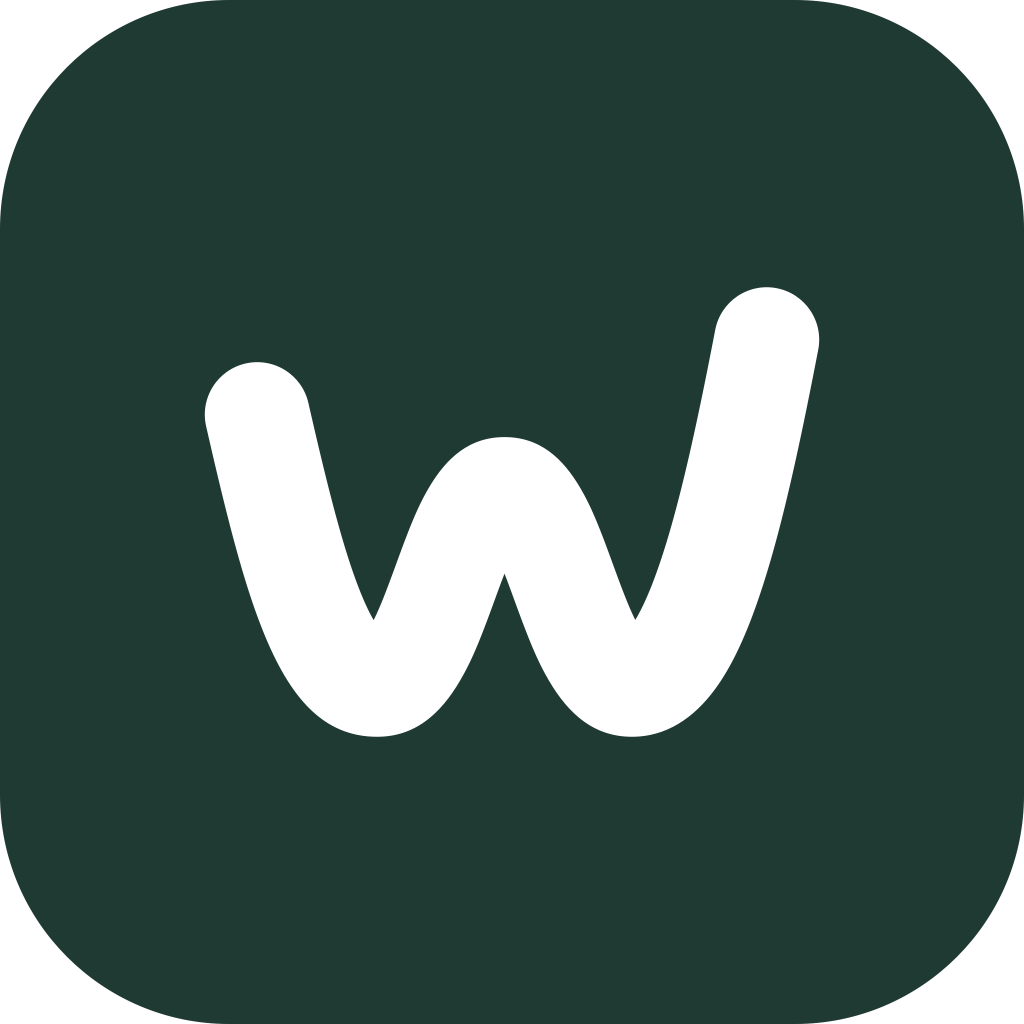
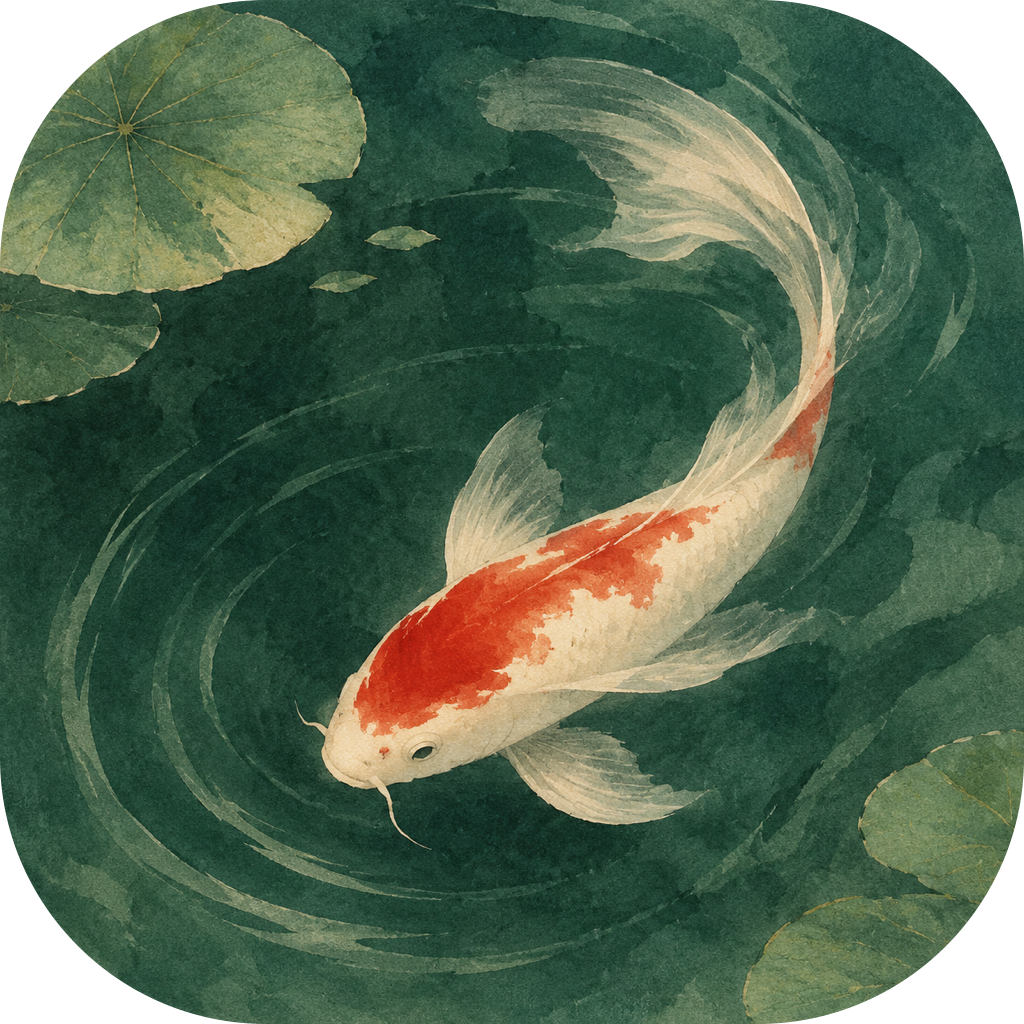
0.6.1：水墨锦鲤图标（程序坞 + 菜单栏 + 光标提示）

diff --git a/icons/mytype/make-icons.swift b/icons/mytype/make-icons.swift
@@ -2,38 +2,58 @@
 //
 //   swift icons/mytype/make-icons.swift [输出目录]     # 默认 icons/mytype
 //
-// 三个文件，都是同一条 M 笔画（单笔：左下起，上到顶、下到中间、再上到顶、落到右下）：
-//   menu.pdf      16×16 pt：实心圆里挖出 M。菜单栏、输入法菜单、系统设置的输入法列表用它。
-//   caret@2x.pdf  只有 M 一笔。切换输入法时光标旁边的提示用它（系统画蓝色气泡，M 画成白色）。
-//   app-1024.png  程序坞里的彩色图标：墨绿圆角方块 + 白色 M，build.sh 缩成 iconset 打 icns。
-// 生成的文件提交在仓库里，build.sh 直接拷，打包时不用再跑这个脚本。
+// 三个文件：
+//   app-1024.png  程序坞 / 关于页的彩色图标：水墨锦鲤（app-source.png）裁成 macOS squircle。
+//   menu.pdf      16×16 pt：锦鲤剪影。菜单栏、输入法菜单、系统设置的输入法列表用它。
+//   caret@2x.pdf  32×36 pt：同一条锦鲤。切换输入法时光标旁的提示用它（系统画蓝色气泡，图是白色）。
+// app-source.png 是 AI 生成的 1254×1254 原图，留着重出用；生成的文件提交在仓库里，build.sh 直接拷。
 import CoreGraphics
 import Foundation
 import ImageIO
 import UniformTypeIdentifiers
 
 let out = CommandLine.arguments.count > 1 ? CommandLine.arguments[1] : "icons/mytype"
+let outURL = URL(fileURLWithPath: out)
 
-// 128×128（y 朝下）里的一条 M 笔画：和原来那笔 W 上下对折，粗细、留白一样。
-func mPath() -> CGPath {
+// 128×128（y 朝下）里的一条锦鲤：头在左下，背向右上，尾巴分叉。
+func fishPath() -> CGPath {
     let p = CGMutablePath()
-    p.move(to: CGPoint(x: 31, y: 78))
-    p.addCurve(to: CGPoint(x: 47, y: 42), control1: CGPoint(x: 36, y: 56), control2: CGPoint(x: 40, y: 42))
-    p.addCurve(to: CGPoint(x: 64, y: 68), control1: CGPoint(x: 55, y: 42), control2: CGPoint(x: 57, y: 68))
-    p.addCurve(to: CGPoint(x: 81, y: 42), control1: CGPoint(x: 71, y: 68), control2: CGPoint(x: 73, y: 42))
-    p.addCurve(to: CGPoint(x: 99, y: 88), control1: CGPoint(x: 89, y: 42), control2: CGPoint(x: 94, y: 62))
+    p.move(to: CGPoint(x: 20, y: 82)) // 嘴
+    p.addCurve(to: CGPoint(x: 62, y: 46), control1: CGPoint(x: 24, y: 62), control2: CGPoint(x: 40, y: 48))
+    p.addCurve(to: CGPoint(x: 88, y: 56), control1: CGPoint(x: 74, y: 44), control2: CGPoint(x: 84, y: 48))
+    p.addLine(to: CGPoint(x: 112, y: 30)) // 上尾尖
+    p.addLine(to: CGPoint(x: 102, y: 58)) // 尾叉
+    p.addLine(to: CGPoint(x: 112, y: 84)) // 下尾尖
+    p.addLine(to: CGPoint(x: 88, y: 66))
+    p.addCurve(to: CGPoint(x: 52, y: 92), control1: CGPoint(x: 78, y: 82), control2: CGPoint(x: 66, y: 92))
+    p.addCurve(to: CGPoint(x: 20, y: 82), control1: CGPoint(x: 36, y: 92), control2: CGPoint(x: 24, y: 90))
+    p.closeSubpath()
+    // 背鳍
+    p.move(to: CGPoint(x: 52, y: 48))
+    p.addLine(to: CGPoint(x: 58, y: 26))
+    p.addLine(to: CGPoint(x: 70, y: 50))
+    p.closeSubpath()
+    // 胸鳍
+    p.move(to: CGPoint(x: 36, y: 78))
+    p.addLine(to: CGPoint(x: 28, y: 96))
+    p.addLine(to: CGPoint(x: 50, y: 86))
+    p.closeSubpath()
     return p
 }
 
-/// 一笔描成轮廓（圆头圆角），换到 PDF 坐标（y 朝上）并缩放、平移。
-func strokeOutline(width: CGFloat, scale: CGFloat, page: CGSize, offset: CGPoint) -> CGPath {
-    let outline = mPath().copy(strokingWithWidth: width, lineCap: .round, lineJoin: .round, miterLimit: 10)
-    var t = CGAffineTransform(translationX: offset.x, y: page.height - offset.y).scaledBy(x: scale, y: -scale)
-    return outline.copy(using: &t)!
+/// 把 128×128 的鱼按比例放到页面上并居中（PDF 坐标 y 朝上）。
+func fishOnPage(_ page: CGSize, margin: CGFloat) -> CGPath {
+    let bbox = fishPath().boundingBoxOfPath
+    let scale = min((page.width - margin * 2) / bbox.width, (page.height - margin * 2) / bbox.height)
+    let w = bbox.width * scale, h = bbox.height * scale
+    var t = CGAffineTransform(translationX: (page.width - w) / 2 - bbox.minX * scale,
+                              y: (page.height + h) / 2 + bbox.minY * scale)
+        .scaledBy(x: scale, y: -scale)
+    return fishPath().copy(using: &t)!
 }
 
 func writePDF(_ name: String, page: CGSize, path: CGPath) {
-    let url = URL(fileURLWithPath: out).appendingPathComponent(name) as CFURL
+    let url = outURL.appendingPathComponent(name) as CFURL
     var box = CGRect(origin: .zero, size: page)
     let info = [kCGPDFContextCreator as String: "MyType icons/mytype/make-icons.swift"] as CFDictionary
     guard let ctx = CGContext(url, mediaBox: &box, info) else { fatalError("写不了 \(name)") }
@@ -46,55 +66,42 @@ func writePDF(_ name: String, page: CGSize, path: CGPath) {
     print("\(out)/\(name)")
 }
 
-// 菜单栏：16 pt 的圆，直径 15，M 笔画比圆里那笔稍粗，16 pt 下看得清
+// 菜单栏：16 pt，锦鲤剪影；四周留 1.5 pt
 let menuPage = CGSize(width: 16, height: 16)
-let menuScale = menuPage.width / 128
-let disc = CGPath(ellipseIn: CGRect(x: 0.5, y: 0.5, width: 15, height: 15), transform: nil)
-let menuM = strokeOutline(width: 14, scale: menuScale, page: menuPage, offset: .zero)
-writePDF("menu.pdf", page: menuPage, path: disc.subtracting(menuM))
+writePDF("menu.pdf", page: menuPage, path: fishOnPage(menuPage, margin: 1.5))
 
-// 光标旁的提示：照系统自带输入法（AinuIM 的 Ainu@2x.pdf，28×36）的做法只给字形，四周留一点边
+// 光标旁的提示：32×36，鱼大一点，四周留 2 pt
 let caretPage = CGSize(width: 32, height: 36)
-let raw = mPath().copy(strokingWithWidth: 14, lineCap: .round, lineJoin: .round, miterLimit: 10).boundingBoxOfPath
-let caretScale = (caretPage.width - 4) / raw.width
-let glyphHeight = raw.height * caretScale
-let caretM = strokeOutline(width: 14, scale: caretScale, page: caretPage,
-                           offset: CGPoint(x: 2 - raw.minX * caretScale,
-                                           y: (caretPage.height - glyphHeight) / 2 - raw.minY * caretScale))
-writePDF("caret@2x.pdf", page: caretPage, path: caretM)
+writePDF("caret@2x.pdf", page: caretPage, path: fishOnPage(caretPage, margin: 2))
 
-// 程序坞的彩色图标：墨绿圆角方块，白色 M 居中，四周留白
-let side: CGFloat = 1024
+// 程序坞图标：水墨锦鲤原图裁成 macOS squircle（圆角比原图稍大，去掉原图的白角）
+let side = 1024
+let sourceURL = outURL.appendingPathComponent("app-source.png")
+guard let source = CGImageSourceCreateWithURL(sourceURL as CFURL, nil),
+      let image = CGImageSourceCreateImageAtIndex(source, 0, nil) else {
+    fatalError("读不了 app-source.png")
+}
 let space = CGColorSpaceCreateDeviceRGB()
-guard let ctx = CGContext(data: nil, width: Int(side), height: Int(side), bitsPerComponent: 8,
-                          bytesPerRow: 0, space: space,
-                          bitmapInfo: CGImageAlphaInfo.premultipliedLast.rawValue) else {
+guard let ctx = CGContext(data: nil, width: side, height: side, bitsPerComponent: 8, bytesPerRow: 0,
+                          space: space, bitmapInfo: CGImageAlphaInfo.premultipliedLast.rawValue) else {
     fatalError("建不了位图")
 }
-let corner = side * 0.2237 // 和系统图标差不多的圆角半径
+let radius = CGFloat(side) * 0.26
 ctx.addPath(CGPath(roundedRect: CGRect(x: 0, y: 0, width: side, height: side),
-                   cornerWidth: corner, cornerHeight: corner, transform: nil))
-ctx.setFillColor(CGColor(srgbRed: 0.122, green: 0.227, blue: 0.196, alpha: 1)) // #1F3A32
-ctx.fillPath()
-
-// 笔画缩到画布宽度的 60%，按包围盒居中（不用管 y 朝哪边）
-let iconScale = side * 0.60 / raw.width
-let iconWidth = raw.width * iconScale
-let iconHeight = raw.height * iconScale
-var transform = CGAffineTransform(translationX: (side - iconWidth) / 2, y: (side - iconHeight) / 2)
-    .scaledBy(x: iconScale, y: iconScale)
-    .translatedBy(x: -raw.minX, y: -raw.minY)
-let iconM = mPath().copy(strokingWithWidth: 14, lineCap: .round, lineJoin: .round, miterLimit: 10)
-ctx.addPath(iconM.copy(using: &transform)!)
-ctx.setFillColor(CGColor(srgbRed: 1, green: 1, blue: 1, alpha: 1))
-ctx.fillPath()
-
-let pngURL = URL(fileURLWithPath: out).appendingPathComponent("app-1024.png")
-guard let image = ctx.makeImage(),
-      let dest = CGImageDestinationCreateWithURL(pngURL as CFURL, UTType.png.identifier as CFString, 1, nil)
-else {
+                   cornerWidth: radius, cornerHeight: radius, transform: nil))
+ctx.clip()
+ctx.interpolationQuality = .high
+// 去掉原图最外圈的 1–2 px 白边，免得圆角边缘留一圈白
+let inset: CGFloat = 4
+let cropped = image.cropping(to: CGRect(x: inset, y: inset,
+                                         width: CGFloat(image.width) - inset * 2,
+                                         height: CGFloat(image.height) - inset * 2)) ?? image
+ctx.draw(cropped, in: CGRect(x: 0, y: 0, width: side, height: side))
+let pngURL = outURL.appendingPathComponent("app-1024.png")
+guard let outImage = ctx.makeImage(),
+      let dest = CGImageDestinationCreateWithURL(pngURL as CFURL, UTType.png.identifier as CFString, 1, nil) else {
     fatalError("写不了 app-1024.png")
 }
-CGImageDestinationAddImage(dest, image, nil)
+CGImageDestinationAddImage(dest, outImage, nil)
 guard CGImageDestinationFinalize(dest) else { fatalError("写不了 app-1024.png") }
 print("\(out)/app-1024.png")

diff --git a/README.md b/README.md
@@ -1,5 +1,5 @@
 <p align="center">
-  <img src="icons/mytype/app-1024.png" width="112" alt="MyType">
+  <img src="icons/mytype/app-256.png" width="112" alt="MyType">
 </p>
 
 <h1 align="center">MyType</h1>
@@ -73,13 +73,13 @@ curl -fsSL https://raw.githubusercontent.com/yxxbc/MyType/main/install.sh | bash
 安装时 MyType 会退出，装完 `postinstall` 自动登记、打开并切回来；设置、用户词、自定义词都不动。
 启动后最多一天自动检查一次，可在「关于」页关掉（`CheckUpdate=False`）。
 
-0.5.x 没有内置更新器，跑一次上面的 `install.sh`（或双击 0.6.0 pkg）升上来；数据目录和设置会自动迁移。
+0.5.x 没有内置更新器，跑一次上面的 `install.sh`（或双击 0.6.x pkg）升上来；数据目录和设置会自动迁移。
 
 ## 性能
 
 相对上游 WowType 0.4.0：
 
-| | 上游 0.4.0 | 这里 0.6.0 |
+| | 上游 0.4.0 | 这里 0.6.1 |
 |---|---:|---:|
 | `--selftest` 峰值内存（万象 174 万条 + 语言模型） | 880 MB | **188 MB** |
 | 词库常驻（单独测） | 590 MB | **39 MB** |
@@ -107,10 +107,10 @@ export PATH="$HOME/.cargo/bin:$PATH"
 scripts/make-data.sh     # 雾凇词库 + english.txt + words.lm（联网下载，约一分钟）
 scripts/make-wubi.sh     # 五笔 86 码表
 macos/build.sh dist/data dist/macos
-macos/install.sh dist/macos/MyType-0.6.0-macos.zip
+macos/install.sh dist/macos/MyType-0.6.1-macos.zip
 ```
 
-产物在 `dist/macos/`：`MyType.app`、`MyType-0.6.0-macos.zip`、`MyType-0.6.0-macos.pkg`。
+产物在 `dist/macos/`：`MyType.app`、`MyType-0.6.1-macos.zip`、`MyType-0.6.1-macos.pkg`。
 
 测试：
 
@@ -144,7 +144,7 @@ macos/ShellTests/run.sh dist/data   # 有词库数据时
 <details>
 <summary>相对上游的其它改动</summary>
 
-| 项目 | 上游 0.4.0 | 这里 0.6.0 |
+| 项目 | 上游 0.4.0 | 这里 0.6.1 |
 |---|---|---|
 | 名字 / bundle id / 设置文件 | WowType / `io.github.gloridust…` / `wowtype.conf` | **MyType / `io.github.yxxbc.inputmethod.MyType` / `mytype.conf`** |
 | 版本 | 0.4.0 | 从 **0.5.0** 起自己编 |

diff --git a/icons/README.md b/icons/README.md
@@ -1,13 +1,15 @@
 # 图标
 
 macOS 输入法是单色模板图（黑色 + 透明的矢量 PDF），系统按菜单栏深浅色自己上色，
-和系统自带的输入法、微信输入法一样。
+和系统自带的输入法、微信输入法一样。图案是一条水墨锦鲤的剪影。
 
-- `mytype/menu.pdf`：16 pt，实心圆里挖出 M。菜单栏、输入法菜单、系统设置的输入法列表用它
-- `mytype/caret@2x.pdf`：只有 M 那一笔。切换输入法时光标旁边的提示气泡用它
-- `mytype/app-1024.png`：程序坞和「关于」页的彩色图标（墨绿圆角方块 + 白色 M），`macos/build.sh` 缩成 `AppIcon.icns`
+- `mytype/menu.pdf`：16 pt，锦鲤剪影。菜单栏、输入法菜单、系统设置的输入法列表用它
+- `mytype/caret@2x.pdf`：同一条锦鲤。切换输入法时光标旁边的提示气泡用它
+- `mytype/app-1024.png`：程序坞和「关于」页的彩色图标（水墨锦鲤裁成 macOS squircle），`macos/build.sh` 缩成 `AppIcon.icns`
+- `mytype/app-256.png`：README 顶部用的小图，由 `app-1024.png` 缩成
+- `mytype/app-source.png`：AI 生成的 1254×1254 原图，留着重出用
 
-三个文件由 `icons/mytype/make-icons.swift` 生成（只能在 macOS 上跑），生成的文件提交在仓库里，打包时直接拷：
+三个成品由 `icons/mytype/make-icons.swift` 生成（只能在 macOS 上跑），生成的文件提交在仓库里，打包时直接拷：
 
 ```bash
 swift icons/mytype/make-icons.swift
